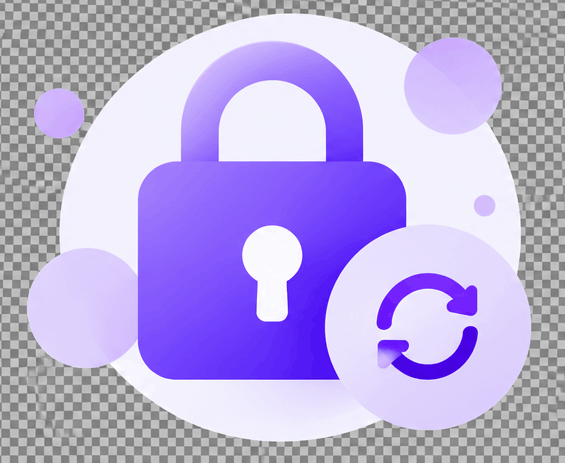
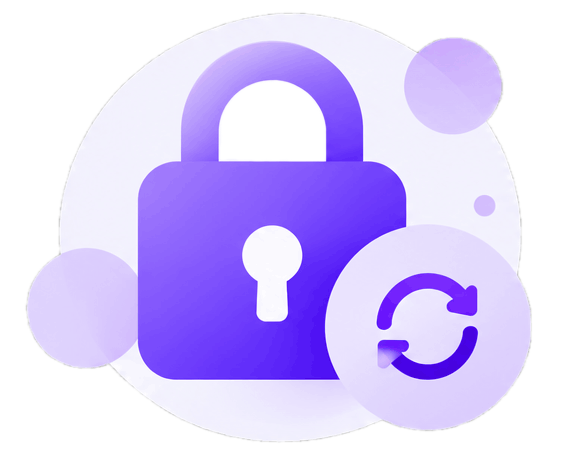
create UI of Create new password

diff --git a/lib/views/screens/auth_screens/forget_password/enter_email_screen/otp_screen.dart b/lib/views/screens/auth_screens/forget_password/enter_email_screen/otp_screen.dart
@@ -2,6 +2,7 @@ import 'dart:async';
 
 import 'package:flutter/material.dart';
 import 'package:flutter_screenutil/flutter_screenutil.dart';
+import 'package:flutter_svg/svg.dart';
 import 'package:get/get.dart';
 import 'package:pinput/pinput.dart';
 import 'package:vlr/controllers/auth_controller.dart';
@@ -11,6 +12,8 @@ import 'package:vlr/services/custom_text.dart';
 import 'package:vlr/services/theme.dart';
 import 'package:vlr/views/base/custom_button.dart';
 import 'package:vlr/views/base/custom_image.dart';
+import 'package:vlr/views/screens/auth_screens/forget_password/enter_email_screen/forget_flow_screen.dart';
+import 'package:vlr/views/widget/text_box/app_text_box.dart';
 
 class OtpScreen extends StatefulWidget {
   const OtpScreen({
@@ -121,7 +124,7 @@ class _OtpScreenState extends State<OtpScreen> {
                       overflow: TextOverflow.clip,
                       text: TextSpan(
                           text:
-                              "We have sent a 6-digit verification code to your email address",
+                              "We have sent a 6-digit verification code to your email address ",
                           style: Helper(context).textTheme.bodyMedium?.copyWith(
                                 fontSize: 12.sp,
                                 color: context.greyText,
@@ -182,26 +185,7 @@ class _OtpScreenState extends State<OtpScreen> {
                             ),
                     ),
                     sizedBoxHeight(height: 20),
-                    CustomButton(
-                      height: 65.h,
-                      radius: 16.r,
-                      gradient: context.buttonGradient,
-                      onTap: () {
-                        if (authController.isLoading) {
-                          return showToast(message: "Please wait..");
-                        }
-                        // navigate(
-                        //     context: context, page: const DashboardScreen());
-                      },
-                      child: CustomText(
-                        "Verify OTP",
-                        textAlign: TextAlign.center,
-                        style: Helper(context).textTheme.bodyMedium?.copyWith(
-                              fontSize: 16.sp,
-                              color: white,
-                            ),
-                      ),
-                    ),
+                    verifyOpt(context, authController),
                     Padding(
                       padding: EdgeInsets.symmetric(
                         vertical: 24.h,
@@ -272,6 +256,109 @@ class _OtpScreenState extends State<OtpScreen> {
           ),
         );
       }),
+    );
+  }
+
+  CustomButton verifyOpt(BuildContext context, AuthController authController) {
+    return CustomButton(
+      height: 65.h,
+      radius: 16.r,
+      gradient: context.buttonGradient,
+      onTap: () {
+        if (authController.isLoading) {
+          return showToast(message: "Please wait..");
+        }
+        navigate(
+          context: context,
+          page: ForgetFlowScreen(
+            image: context.imageLock,
+            widget: Column(
+              children: [
+                sizedBoxHeight(height: 20),
+                CustomText(
+                  "Create New Password",
+                  style: Helper(context).textTheme.titleSmall?.copyWith(
+                        fontSize: 24.sp,
+                      ),
+                ),
+                sizedBoxHeight(height: 8),
+                CustomText(
+                  "Set a new password for your account.",
+                  textAlign: TextAlign.center,
+                  overflow: TextOverflow.clip,
+                  style: Helper(context).textTheme.bodyMedium?.copyWith(
+                        fontSize: 12.sp,
+                        color: context.greyText,
+                      ),
+                ),
+                sizedBoxHeight(height: 28),
+                AppTextFieldWithHeading(
+                  controller: authController.passwordController,
+                  obscureText: true,
+                  heading: "New Password",
+                  preFixWidget: Padding(
+                    padding: EdgeInsets.all(12.w),
+                    child: SvgPicture.asset(Assets.svgsLock),
+                  ),
+                  hindText: "New Password",
+                  textInputAction: TextInputAction.done,
+                  validator: (value) {
+                    if (value == null || value.isEmpty) {
+                      return 'Please enter your New Password';
+                    }
+                    return null;
+                  },
+                ),
+                sizedBoxHeight(height: 16),
+                AppTextFieldWithHeading(
+                  controller: authController.confirmPasswordController,
+                  preFixWidget: Padding(
+                    padding: EdgeInsets.all(12.w),
+                    child: SvgPicture.asset(Assets.svgsLock),
+                  ),
+                  hindText: "Confirm password",
+                  heading: "Confirm password",
+                  textInputAction: TextInputAction.done,
+                  validator: (value) {
+                    if (value == null || value.isEmpty) {
+                      return 'Please enter your confirm password';
+                    }
+                    if (value != authController.passwordController.text) {
+                      return 'Confirm do not match with password';
+                    }
+                    return null;
+                  },
+                ),
+                sizedBoxHeight(height: 24),
+                CustomButton(
+                  height: 65.h,
+                  radius: 16.r,
+                  gradient: context.buttonGradient,
+                  onTap: () {
+                    navigate(context: context, page: const OtpScreen());
+                  },
+                  child: CustomText(
+                    "Update Password",
+                    textAlign: TextAlign.center,
+                    style: Helper(context).textTheme.bodyMedium?.copyWith(
+                          fontSize: 16.sp,
+                          color: white,
+                        ),
+                  ),
+                ),
+              ],
+            ),
+          ),
+        );
+      },
+      child: CustomText(
+        "Verify OTP",
+        textAlign: TextAlign.center,
+        style: Helper(context).textTheme.bodyMedium?.copyWith(
+              fontSize: 16.sp,
+              color: white,
+            ),
+      ),
     );
   }
 }
